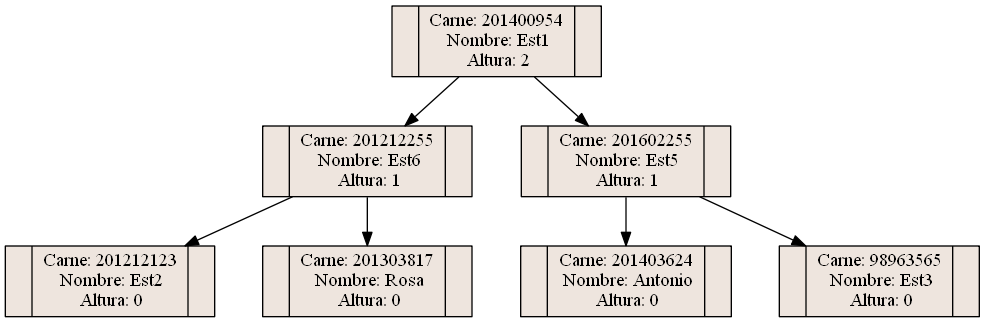
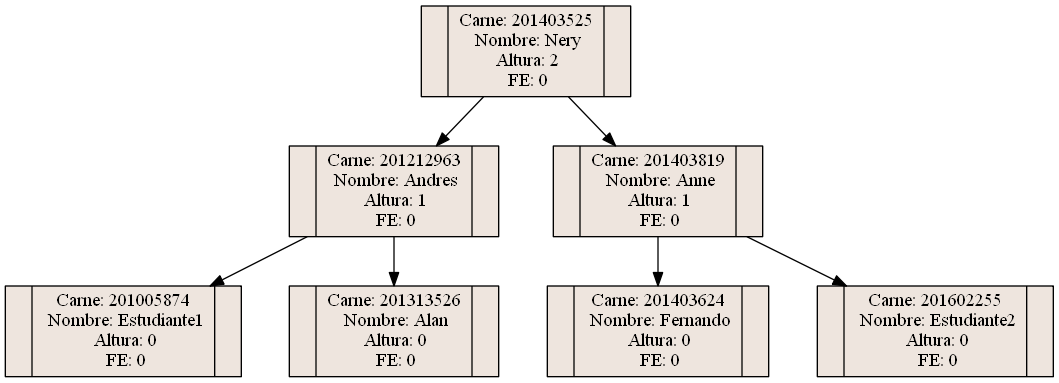
falta hacer pruebas finales y mostrar en pantalla los recorridos

diff --git a/Practica2/venv/Include/main.py b/Practica2/venv/Include/main.py
@@ -22,6 +22,7 @@ Hash=""
 codificar=hashlib.sha256()
 flag_send=False
 username=""
+selectblock=0
 
 server = socket.socket(socket.AF_INET, socket.SOCK_STREAM)
 if len(sys.argv) != 3:  #verifica cuando se ejecuta el programa con 3 argumentos
@@ -33,10 +34,10 @@ server.connect((IP_address, Port)) #inicia el cliente
 
 def Menu_Principal(window):
     Titulo(window,'Main Menu')
-    window.addstr(10,21, '1. Insert Block')
-    window.addstr(11,21, '2. Select Block')
-    window.addstr(12,21, '3. Reports')
-    window.addstr(13,21, '4. Exit')
+    window.addstr(8,21, '1. Insert Block')
+    window.addstr(9,21, '2. Select Block')
+    window.addstr(10,21, '3. Reports')
+    window.addstr(11,21, '4. Exit')
 
 def Menu_Reports(window):
     Titulo(window,'Reports')
@@ -54,14 +55,7 @@ def Select_Reports(window):
             bloque.GraficarBloque()
             keystroke=-1
         elif(keystroke==50):
-            global username
-            Titulo(window,'Reports')
-            a= Pedir_Dato(window)
-            bloc=bloque.Buscar(int(a))
-            if bloc != None:
-                bloc.arbol.GraficarAVL()
-            else:
-                print("Vacio")
+            select_Report_Tree(window)
             TeclaESC(window)
             Menu_Reports(window)
             keystroke=-1
@@ -71,13 +65,68 @@ def Select_Reports(window):
             keystroke=-1
     window.refresh()
 
+def select_Report_Tree(window):
+    window.clear()
+    Sub_Menu_Tree(window)
+    keystroke = -1
+    while(keystroke==-1):
+        keystroke = window.getch()
+        if(keystroke==49): #1 avl
+            bloc=bloque.Buscar(selectblock)
+            if bloc != None:
+                bloc.arbol.GraficarAVL()
+            else:
+                print("Vacio")
+            TeclaESC(window)
+            Sub_Menu_Tree(window)
+            keystroke=-1
+        elif(keystroke==50):#2 preorden
+            bloc=bloque.Buscar(selectblock)
+            if bloc != None:
+                lista=[]
+                bloc.arbol.Graph_PreOrden(lista,bloc.arbol.raiz)
+                bloc.arbol.Graph_Transversal(lista,'PREORDEN')
+            else:
+                print("Vacio")
+            TeclaESC(window)
+            Sub_Menu_Tree(window)
+            keystroke=-1
+        elif(keystroke==51):#3 postorden
+            bloc=bloque.Buscar(selectblock)
+            if bloc != None:
+                lista=[]
+                bloc.arbol.Graph_PostOrden(lista,bloc.arbol.raiz)
+                bloc.arbol.Graph_Transversal(lista,'POSTORDEN')
+            else:
+                print("Vacio")
+            TeclaESC(window)
+            Sub_Menu_Tree(window)
+            keystroke=-1
+        elif(keystroke==52):#4 inorden
+            bloc=bloque.Buscar(selectblock)
+            if bloc != None:
+                lista=[]
+                bloc.arbol.Graph_Inorden(lista,bloc.arbol.raiz)
+                bloc.arbol.Graph_Transversal(lista,'INORDEN')
+            else:
+                print("Vacio")
+            TeclaESC(window)
+            Sub_Menu_Tree(window)
+            keystroke=-1
+        elif(keystroke==53):# exit
+            Menu_Reports(window)
+        else:
+            keystroke=-1
+    window.refresh()
+
+
 def Sub_Menu_Tree(window):
-    Titulo(window,'Main Menu')
+    Titulo(window,'Tree Reports')
     window.addstr(10,21, '1. Tree Report')
-    window.addstr(11,21, '2. Inorden')
+    window.addstr(11,21, '2. PreOrden')
     window.addstr(12,21, '3. PostOrden')
-    window.addstr(13,21, '4. Preorden')
-    window.addstr(13,21, '5. Exit')
+    window.addstr(13,21, '4. Inorden')
+    window.addstr(14,21, '5. Exit')
 
 def Pedir_Dato(screen):
     curses.echo()
@@ -184,26 +233,6 @@ def LeerArchivo(window):
                 else:
                     cadenajson = row[1]
                     line_count +=  1
-                #temp=len(data)
-                #cadenajson=data[:temp-2] 
-            if bloque.primero is None:
-                index=0
-                prevhash="0000"
-                H = str.encode(str(index)+timestamp+clase+cadenajson+prevhash)
-                cod.update(H)
-                Hash=str(cod.hexdigest())
-            else:
-                index=(bloque.ultimo.INDEX)+1
-                print("entro a este ")
-                print(index)
-                aux=bloque.primero
-                prevhash=bloque.ultimo.HASH
-                H = str.encode(str(index)+timestamp+clase+cadenajson+prevhash)
-                cod.update(H)
-                Hash=str(cod.hexdigest())
-                
-            #codes=json.loads(cadenajson)
-            #Read_Json(codes)
             while True:
                 window.clear()
                 window.border(0)
@@ -212,6 +241,22 @@ def LeerArchivo(window):
                 centro = round((60-len(msg))/2)
                 window.addstr(10,centro,msg)
                 sel = window.getch()
+                if bloque.primero == None:
+                    index=0
+                    prevhash="0000"
+                    H = str.encode(str(index)+timestamp+clase+cadenajson+prevhash)
+                    cod.update(H)
+                    Hash=str(cod.hexdigest())
+                    print("entro en lista vacia cuando carga")
+                else:
+                    index=(bloque.ultimo.INDEX)+1
+                    prevhash=bloque.ultimo.HASH
+                    H = str.encode(str(index)+timestamp+clase+cadenajson+prevhash)
+                    cod.update(H)
+                    Hash=str(cod.hexdigest())
+                    print("entro en lista no vacia cuando carga")
+
+
                 server.sendall(Convertir_JSON(index,timestamp,clase,cadenajson,prevhash,Hash).encode('utf-8'))
                 if sel == 27:
                     break
@@ -296,8 +341,8 @@ def print_Bloque(window, index,time,clase,data,prev,Hash):
     window.addstr(3, 4, "TIMESTAMP:"+t)
     window.addstr(4, 4, "CLASS: " +c)
     window.addstr(5,4, "DATA: "+ dat)
-    window.addstr(20, 4,"PREVIOUSHASH: " +p)
-    window.addstr(23, 4, "HASH: " +h)
+    window.addstr(15, 4,"PREVIOUSHASH: " +p)
+    window.addstr(18, 4, "HASH: " +h)
    
     
     window.refresh()
@@ -305,6 +350,7 @@ def print_Bloque(window, index,time,clase,data,prev,Hash):
 def Menu_Bloque(window):
     temp=bloque.primero
     temp2=bloque.ultimo
+    global selectblock
     validar=True
     if temp != None:
         n = temp.INDEX
@@ -339,6 +385,7 @@ def Menu_Bloque(window):
                 else:
                     pass
             elif key == 10:
+                selectblock=n
                 break
             elif key == 27:
                 break
@@ -354,7 +401,7 @@ def Sha_256(ind,time,clas,dat,pre):
     return str(code.hexdigest())
 
 curses.initscr()
-window = curses.newwin(25,60,0,0)
+window = curses.newwin(20,60,0,0)
 window.keypad(True)
 curses.noecho()
 curses.curs_set(0)
@@ -371,7 +418,7 @@ while True:
     for socks in read_sockets:
         if socks == server:
             message = socks.recv(2048)
-            print (message.decode('utf-8'))
+            #print (message.decode('utf-8'))
             if message.decode('utf-8').strip() == 'true':
                 print ("esto es un true")
                 flag=True
@@ -391,11 +438,13 @@ while True:
                         #pito=Sha_256(datos['INDEX'],datos['TIMESTAMP'],datos['CLASS'],json.dumps(datos['DATA'], indent=4),datos['PREVIOUSHASH'])
                         #print(json.dumps(datos['DATA'], indent=4))
                         #print(pito)
-                        if bloque.primero is None:
-                            server.sendall('true'.encode('utf-8'))
-                            sys.stdout.flush()
+                        if bloque.primero == None:
+                            if datos["PREVIOUSHASH"] == '0000':
+                                server.sendall('true'.encode('utf-8'))
+                                sys.stdout.flush()
+                            else:
+                                print("no sirve")
                         else:
-
                             if datos['PREVIOUSHASH'] == bloque.ultimo.HASH:
                                 print("se envia true al server")
                                 server.sendall('true'.encode('utf-8'))
@@ -408,23 +457,49 @@ while True:
                         print("error: formato json con error")
 
     if flag and datos != None:
+        cod = hashlib.sha256()
+        print("entro en la condicion el inf de none")
         if cadenajson == "" and timestamp =="":
             bloque.Insertar(datos['INDEX'], datos["TIMESTAMP"], datos["CLASS"], json.dumps(datos['DATA'], indent=4), datos["PREVIOUSHASH"], datos["HASH"])
             codes=json.loads(json.dumps(datos['DATA']))
             Read_Json(codes,datos["INDEX"])
+            flag=False
+            print("inserta con el jason")
         else:
-            bloque.Insertar(index,timestamp,clase,cadenajson,prevhash,Hash)
-            codes=json.loads(cadenajson)
-            Read_Json(codes,index)
-            cadenajson=""
-            timestamp=""
-            index=0
-            Hash=""
-            prevhash=""
-            clase=""
-
-        flag=False
-        datos=None
+            if bloque.primero == None:
+                index=0
+                prevhash="0000"
+                H = str.encode(str(index)+timestamp+clase+cadenajson+prevhash)
+                cod.update(H)
+                Hash=str(cod.hexdigest())
+                bloque.Insertar(index,timestamp,clase,cadenajson,prevhash,Hash)
+                codes=json.loads(cadenajson)
+                Read_Json(codes,index)
+                cadenajson=""
+                timestamp=""
+                Hash=""
+                prevhash=""
+                clase=""
+                flag=False
+                print("inserta con la lista vacia carga")
+            else:
+                index=(bloque.ultimo.INDEX)+1
+                print("entro a este ")
+                aux=bloque.primero
+                prevhash=bloque.ultimo.HASH
+                H = str.encode(str(index)+timestamp+clase+cadenajson+prevhash)
+                cod.update(H)
+                Hash=str(cod.hexdigest())
+                bloque.Insertar(index,timestamp,clase,cadenajson,prevhash,Hash)
+                codes=json.loads(cadenajson)
+                Read_Json(codes,index)
+                cadenajson=""
+                timestamp=""
+                Hash=""
+                prevhash=""
+                clase=""
+                flag=False
+                print("inserta con lista no vacia carga")
     
     Seleccion(window)
     

diff --git a/Practica2/venv/Include/ArbolAVL.py b/Practica2/venv/Include/ArbolAVL.py
@@ -104,7 +104,8 @@ class ArbolAVL:
     def CodigoInterno(self, raiz,file):
         if raiz != None:
             self.CodigoInterno(raiz.izquierdo,file)
-            file.write(str(raiz.carne)+"[label=\"<C0>|Carne: "+str(raiz.carne)+"&#92;n Nombre: "+raiz.nombre + "&#92;n Altura: "+ str(raiz.altura)+"|<C1>\"];\n")
+            Fe=self.ObtenerFe(raiz.izquierdo)-self.ObtenerFe(raiz.derecho)
+            file.write(str(raiz.carne)+"[label=\"<C0>|Carne: "+str(raiz.carne)+"&#92;n Nombre: "+raiz.nombre + "&#92;n Altura: "+ str(raiz.altura)+"&#92;n FE: "+ str(Fe)+"|<C1>\"];\n")
             if raiz.derecho != None:
                 file.write(str(raiz.carne) + "->" + str(raiz.derecho.carne)+"\n")
             if raiz.izquierdo != None:
@@ -131,11 +132,55 @@ class ArbolAVL:
             self.PostOrden(raiz.izquierdo)
             self.PostOrden(raiz.derecho)
 
+    def Graph_Transversal(self,lista,name):
+        file=open('{}.dot'.format(name),"w")
+        file.write("digraph inorden {\nrankdir = LR;\n")
+        i=0
+        for i in range(len(lista)):
+            file.write(str(i)+"[shape=record, style=filled, fillcolor=seashell2,label=\"Carnet:"+str(lista[i])+"\"];\n")
+            file.write(str(i)+"->"+str(i+1)+"\n")
+
+        file.write(str(i+1)+"[shape=record, style=filled, fillcolor=seashell2,label=\"Fin\"];\n")
+        file.write("}\n")
+        file.close()
+        os.system('dot -Tpng {}.dot -o {}.png'.format(name,name))
+        os.system('{}.png'.format(name))
+    
+    def Graph_Inorden(self, lista, raiz):
+        if raiz != None:
+            carnet=str(raiz.carne)
+            name=raiz.nombre
+            total='{}\\n{}'.format(carnet,name)
+            self.Graph_Inorden(lista,raiz.izquierdo)
+            lista.append(total)
+            self.Graph_Inorden(lista,raiz.derecho)
+
+    def Graph_PostOrden(self, lista, raiz):
+        if raiz != None:
+            carnet=str(raiz.carne)
+            name=raiz.nombre
+            total='{}\\n{}'.format(carnet,name)
+            self.Graph_Inorden(lista,raiz.izquierdo)
+            self.Graph_Inorden(lista,raiz.derecho)
+            lista.append(total)
+            
+
+    def Graph_PreOrden(self, lista, raiz):
+        if raiz != None:
+            carnet=str(raiz.carne)
+            name=raiz.nombre
+            total='{}\\n{}'.format(carnet,name)
+            lista.append(total)
+            self.Graph_Inorden(lista,raiz.izquierdo)
+            self.Graph_Inorden(lista,raiz.derecho)
+
+
 
 
 
 if __name__=="__main__":
     arbol=ArbolAVL()
+    lista=[]
     arbol.insertartodo(201403525,"Nery")
     arbol.insertartodo(201212963, "Andres")
     arbol.insertartodo(201005874, "Estudiante1")
@@ -145,3 +190,5 @@ if __name__=="__main__":
     arbol.insertartodo(201602255, "Estudiante2")
     arbol.InOrden(arbol.raiz)
     arbol.GraficarAVL()
+    arbol.Graph_Inorden(lista,arbol.raiz)
+    arbol.Graph_Transversal(lista,'INORDEN')
